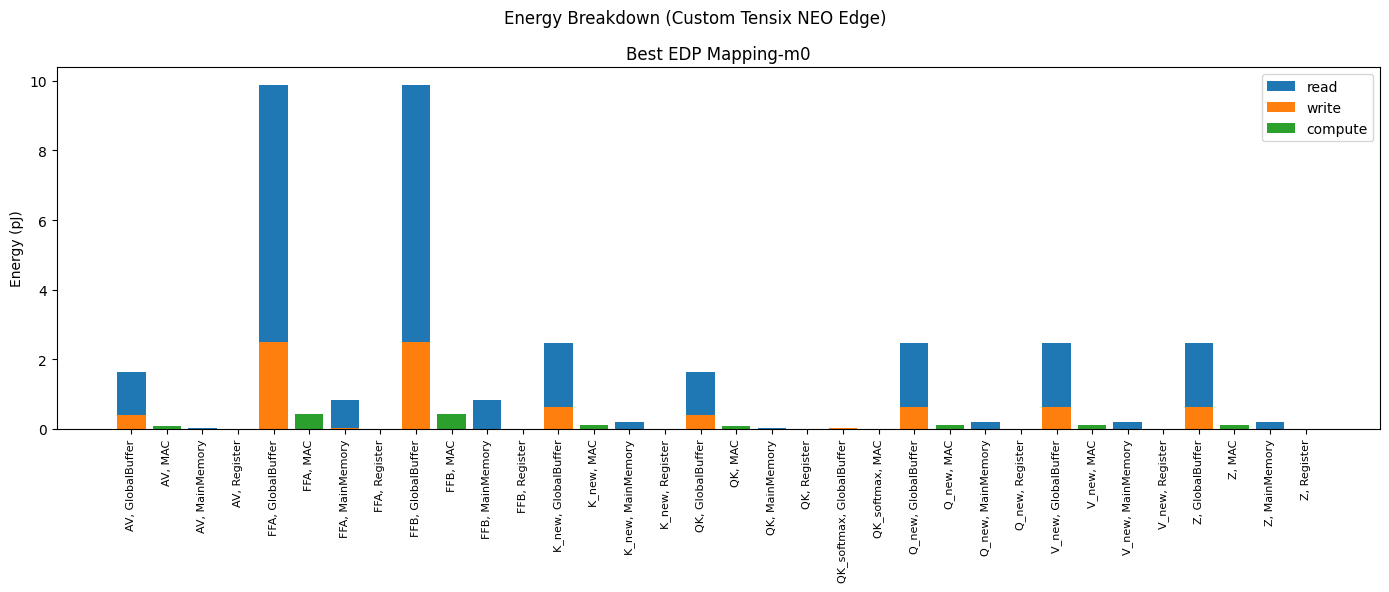
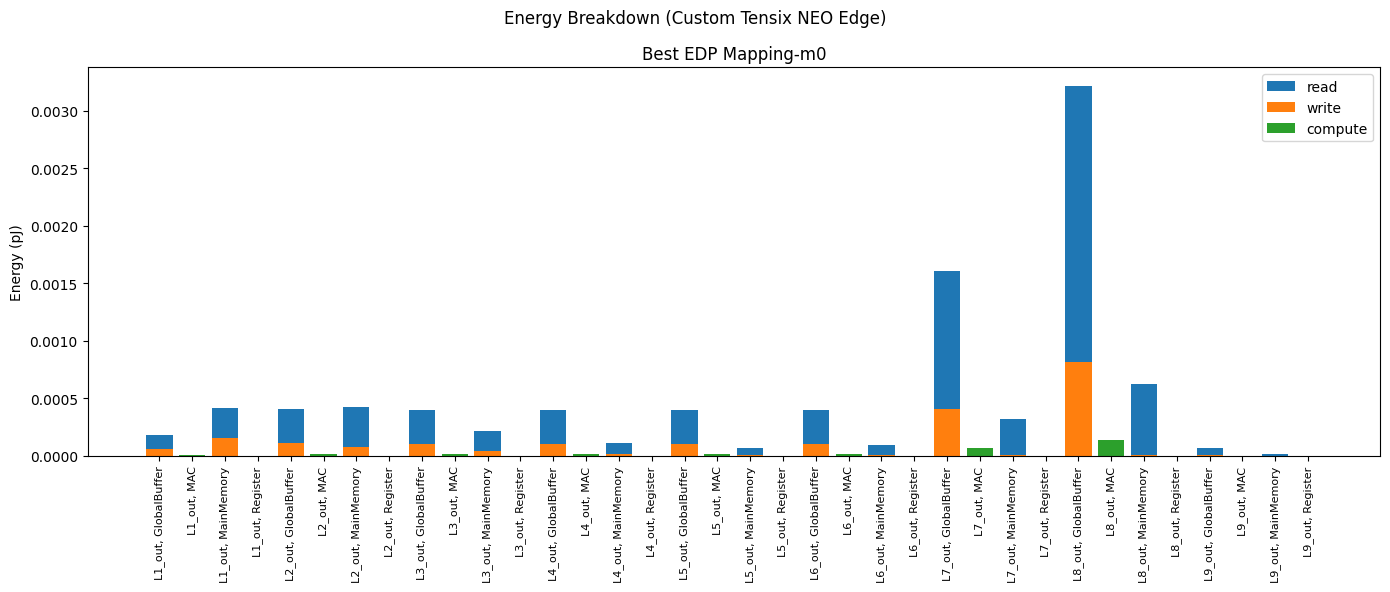
Fixed final graphing of yolo

diff --git a/workspace/mapper_custom_tinyyolo.py b/workspace/mapper_custom_tinyyolo.py
@@ -6,6 +6,8 @@ import matplotlib
 matplotlib.use('Agg')
 import matplotlib.pyplot as plt
 
+import copy
+
 import accelforge as af
 from accelforge.frontend.mapper.metrics import Metrics
 from accelforge.plotting.mappings import plot_energy_breakdown, plot_latency_comparison
@@ -122,25 +124,70 @@ def main():
 
     # --- Plotting ---------------------------------------------
     print('\nGenerating plots...')
-    PLOT_TOP_N = 20  # at the top with other tunables
+    n_to_show = 10
+
+    # 1. Use the EXACT column names discovered in the debug output
+    energy_col = 'Total<SEP>energy'
+    latency_col = 'Total<SEP>latency'
+
+    # Create a copy of the dataframe to work with safely
+    df = mapping_data.copy()
+
+    # 2. Calculate the sorting metric directly (fast column-wise math)
+    df['sort_metric'] = df[energy_col].astype(float) * df[latency_col].astype(float)
+
+    # 3. Sort by the metric in ascending order (lowest energy * latency)
+    sorted_df = df.sort_values(by='sort_metric')
+
+    # 4. Extract the top N and drop the temporary metric column
+    top_10_df = sorted_df.head(n_to_show).drop(columns=['sort_metric'])
+
+    print(f'Total mappings explored: {len(mapping_data)}')
+
+    # 5. THE FIX FOR THE ERROR:
+    # The plotting function expects an object identical to `all_mappings`.
+    # We create a shallow copy of `all_mappings` and replace its `.data` 
+    # attribute with our newly sorted and filtered DataFrame.
+    top_n = copy.copy(mappings)
+    top_n.data = top_10_df
+
+    best_n = mappings[min_edp_filter(top_n.data)]
+
+    print(f'Total mappings explored: {len(mapping_data)}')
 
     try:
-        fig_energy, _ = plot_energy_breakdown(
-            [best_mapping], ['einsum', 'component'], ['action'],
-            ['Best EDP Mapping']
+        fig_energy, axes_energy = plot_energy_breakdown(
+            [top_n], ['einsum', 'component'], ['action'], ['Best EDP Mapping']
         )
-        fig_energy.suptitle('Energy Breakdown (Tensix NEO Edge + TinyYOLOv2)')
-        fig_energy.tight_layout()
-        fig_energy.savefig('custom_accel_energy_breakdown.png', bbox_inches='tight')
-        print("  Saved 'custom_accel_energy_breakdown.png'")
+        
+        # --- THE FIX: Stretch the figure horizontally ---
+        # 14 inches wide by 6 inches tall usually provides enough room for this many labels.
+        # Feel free to increase the '14' to '16' or '18' if they are still touching.
+        fig_energy.set_size_inches(14, 6) 
+        
+        # (Optional) If you want to slightly shrink the font size of the labels as well:
+        for ax in axes_energy:
+            ax.tick_params(axis='x', labelsize=8)
 
-        fig_lat, _ = plot_latency_comparison(
-            [mappings], ['All Mappings']
+        fig_energy.suptitle('Energy Breakdown (Custom Tensix NEO Edge)')
+        
+        # tight_layout will now use the new 14x6 dimensions to organize everything
+        fig_energy.tight_layout() 
+        fig_energy.savefig('custom_accel_energy_breakdown.png', bbox_inches='tight')
+        print("Saved 'custom_accel_energy_breakdown.png'.")
+
+        # --- Do the same for the latency plot if it has similar issues ---
+        fig_lat, ax_lat = plot_latency_comparison(
+            [top_n], ['All Mappings']
         )
-        fig_lat.suptitle('Latency Comparison (Tensix NEO Edge + TinyYOLOv2)')
+        
+        # Resize the latency figure as well
+        fig_lat.set_size_inches(2, 5)
+        
+        fig_lat.suptitle('Latency Comparison (Custom Tensix NEO Edge)')
         fig_lat.tight_layout()
         fig_lat.savefig('custom_accel_latency_comparison.png', bbox_inches='tight')
-        print("  Saved 'custom_accel_latency_comparison.png'")
+        print("Saved 'custom_accel_latency_comparison.png'.")
 
     except Exception as e:
         print(f'Failed to generate plots: {e}')

diff --git a/workspace/mapper_custom_gpt3.py b/workspace/mapper_custom_gpt3.py
@@ -83,8 +83,6 @@ def main():
     # Plotting
     print('\nGenerating plots...')
     mapping_list = all_mappings.data
-    print('\nGenerating plots...')
-    mapping_list = all_mappings.data
 
     n_to_show = 10
 
